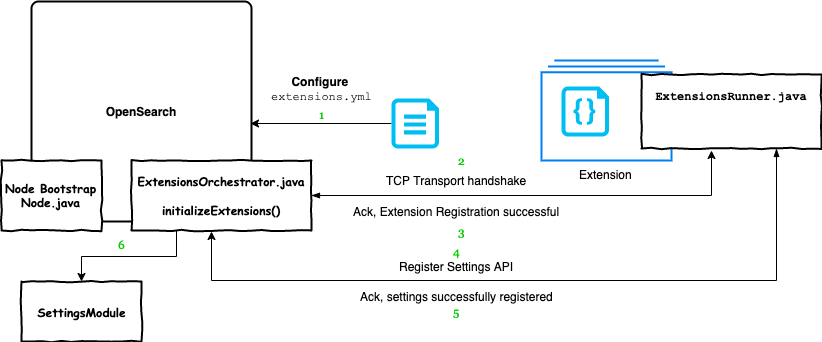
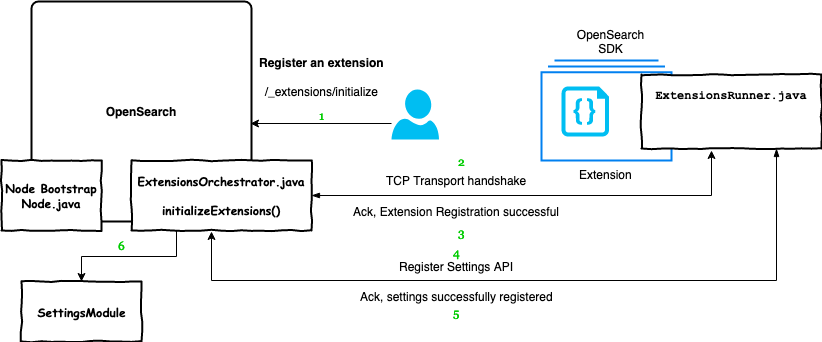
Updated DESIGN.md and the extension design architecture. (#845)
* Remove OpenSearch dependency

* Updated DESIGN.md and the extension architecture diagram

---------

(cherry picked from commit 9843465df8ee6116c0d5c7c840c7993dc7f302cd)

diff --git a/DESIGN.md b/DESIGN.md
@@ -37,26 +37,26 @@ Extensions are designed to extend features through transport APIs, which are exp
 
 ### Discovery
 
-Extensions are discovered and configured in the `extensions.yml` file, which is similar to the `plugin-descriptor.properties` file that is read by OpenSearch during the node bootstrap. `ExtensionsManager` reads through the config file in the `~/extensions` directory and registers extensions within OpenSearch.
+Extensions are registered through the below REST request within OpenSearch.
 
-The following is an example extension configuration in `extensions.yml`:
-
-```yaml
-extensions:
-  - name: sample-extension // extension name
-    uniqueId: opensearch-sdk-1 // identifier for the extension
-    hostAddress: '127.0.0.1' // host address
-    port: '4532' // port number
-    version: '1.0' // extension version
-    opensearchVersion: '3.0.0' // the OpenSearch version with which the extension is compiled
-    minimumCompatibleVersion: '3.0.0' // minimum version of OpenSearch with which the extension is wire compatible
+```bash
+curl -XPOST "localhost:9200/_extensions/initialize" -H "Content-Type:application/json" --data '{ \
+"name":"hello-world", \                 // extension name
+"uniqueId":"hello-world", \             // identifier for the extension
+"hostAddress":"127.0.0.1", \            // host address
+"port":"4532", \                        // port number
+"version":"1.0", \                      // extension version
+"opensearchVersion":"3.0.0", \          // the OpenSearch version with which the extension is compiled
+"minimumCompatibleVersion":"3.0.0", \   // minimum version of OpenSearch with which the extension is wire compatible
+"dependencies":[{"uniqueId":"test1","version":"2.0.0"},{"uniqueId":"test2","version":"3.0.0"}] \  // required extensions for the host extension
+}'
 ```
 
 ### Communication
 
 Extensions use a `ServerSocket`, which binds them to listen on a host address and port defined in each extension's configuration file. Each type of incoming request invokes code from an associated handler.
 
-OpenSearch has its own `extensions.yml` configuration file that matches the extensions' addresses and ports. On startup, the `ExtensionsManager` uses the node's `TransportService` to send requests to each extension, with the first request initializing the extension and validating the host and port.
+`ExtensionsManager` uses the node's `TransportService` to send requests to each extension when the REST request to initialize an extension is invoked, with the first request initializing the extension and validating the host and port.
 
 Immediately following initialization, each extension establishes a connection to OpenSearch on its own transport service and sends its REST API to OpenSearch. The API contains a list of methods and URIs to which the extension will respond. These are registered with the `RestController`.
 
@@ -92,7 +92,7 @@ The `org.opensearch.sdk.sample.helloworld` package contains a sample `HelloWorld
 
 (8, 9, 10) During bootstrap, the OpenSearch `Node` instantiates a `RestController`, passing this to the `ExtensionsManager`, which subsequently passes it to a `RestActionsRequestHandler`.
 
-The `ExtensionsManager` reads a list of extensions present in `extensions.yml`. For each configured extension:
+The `ExtensionsManager` reads a list of extensions loaded through the REST request . For each configured extension:
 
 (11, 12) The `ExtensionsManager` initializes the extension using an `InitializeExtensionsRequest`/`InitializeExtensionsResponse`, establishing a two-way transport mechanism.
 
